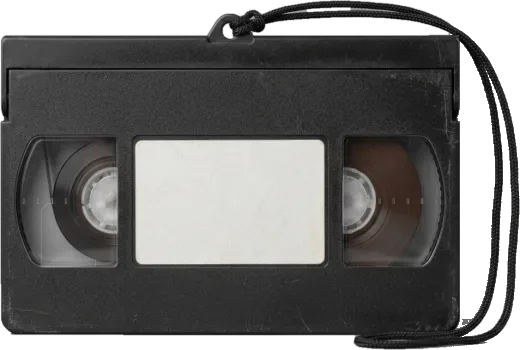
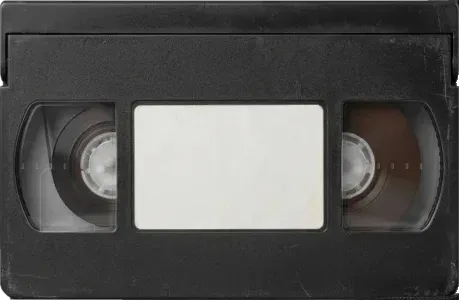
kave/a/vhs/cassette.webp, kg-vhs.css, kg-vhs.js : cassette du chargement sans cordon ni languette (« Enlève la sangle de la cassette », 16 nov. 2026, 3 h 36) ; titre de la cassette chargée écrit au feutre sur l'étiquette, taille réglée au titre pour qu'il tienne entier (« Sois proactif », 3 h 33) ; 
Claude-Session: https://claude.ai/code/session_014nJuEKZjA9iucYNUfjh7aH

diff --git a/kg-vhs.js b/kg-vhs.js
@@ -1694,3 +1694,12 @@
  document.addEventListener('focusin',function(e){if(e.target.closest&&e.target.closest('#vhs'))on(find(e.target))},true);
  document.addEventListener('focusout',function(e){off(find(e.target))},true);
  setInterval(function(){[].forEach.call(document.querySelectorAll('#vhs [aria-current="true"],#vhs .is-playing,#vhs .is-current,#vhs .vhs-face .vhs-label'),function(el){var x=over(el)?el:el.querySelector&&[].filter.call(el.querySelectorAll('*'),over)[0];if(x&&!x.classList.contains('ik-tp-on'))on(x)})},1500)})();
+/* 16 nov. 2026 (Mauk Tenieb, « Sois proactif ») : la cassette qui entre porte au feutre, sur son étiquette, le titre de la cassette chargée */
+addEventListener('kg-vhs:open',function(){setTimeout(function(){
+  var b=document.querySelector('#vhs [data-vhs-boot]'),l=document.querySelector('#vhs .vhs-face .vhs-label');if(!b||b.querySelector('.vhs-boot-name'))return;
+  var t=((l&&l.textContent)||'').replace(/^\s*\d+\s*\/\s*\d+\s*[—–-]\s*/,'').trim();if(!t)return;
+  var n=document.createElement('div');n.className='vhs-boot-name';n.setAttribute('aria-hidden','true');var i=document.createElement('i');i.textContent=t;n.appendChild(i);b.appendChild(n);fitName(n);},0);});
+/* le titre tient entier sur l'étiquette : la taille du feutre se règle au titre, sur deux ou trois lignes, plancher 7 px */
+function fitName(n){var i=n&&n.querySelector('i');if(!i)return;var f=Math.max(7,Math.round(n.clientHeight*.13));i.style.fontSize=f+'px';
+  while(f>7&&(i.scrollHeight>i.clientHeight+1||i.scrollWidth>i.clientWidth+1)){f-=.5;i.style.fontSize=f+'px';}}
+window.KGVHSFitName=fitName;

diff --git a/kg-vhs.css b/kg-vhs.css
@@ -1182,5 +1182,12 @@
 }
 
 /* 16 nov. 2026 (images de Mauk Tenieb, 2 h 46) : la cassette qui entre au chargement est sa photo de cassette VHS */
-html body .vhs-boot-tape{display:block!important;width:46%;aspect-ratio:520/350;height:auto;background:url(kave/a/vhs/cassette.webp) center/contain no-repeat}
+html body .vhs-boot-tape{display:block!important;width:46%;aspect-ratio:459/300;height:auto;background:url(kave/a/vhs/cassette.webp) center/contain no-repeat}
 .vhs-boot-tape>*{display:none}
+html body .vhs-boot:has(.vhs-boot-name) .vhs-boot-tape{visibility:hidden}
+html body .vhs-boot-name{position:absolute;left:50%;top:50%;width:46%;aspect-ratio:459/300;transform:translate(-50%,-50%);pointer-events:none;
+  background:url(kave/a/vhs/cassette.webp) center/contain no-repeat;filter:drop-shadow(0 6px 18px rgba(0,0,0,.8));
+  animation:vhs-tape-in .55s cubic-bezier(.2,.9,.25,1) both;animation-delay:var(--snow-ms,.6s)}
+html body .vhs-boot-name i{position:absolute;left:30.5%;top:37.5%;width:39%;height:37%;display:flex;align-items:center;justify-content:center;text-align:center;overflow:hidden;
+  font:400 12px/1.1 "Permanent Marker","Marker Felt",cursive;font-style:normal;color:#1d2a6e;transform:rotate(-2deg);overflow-wrap:anywhere;hyphens:none}
+html body .vhs-boot.is-inserting .vhs-boot-name{animation:vhs-tape-in .3s reverse both}

diff --git a/sw.js b/sw.js
@@ -1,5 +1,5 @@
 /* Insert Koin: pages and code from the network first (the cache only when offline); images, fonts and wasm from the cache, then refreshed */
-const C='borne-202611160904';  // prefix borne- : this worker clears only its own caches, Insert Koin's ik- caches stay
+const C='borne-202611160905';  // prefix borne- : this worker clears only its own caches, Insert Koin's ik- caches stay
 self.addEventListener('install',e=>self.skipWaiting());
 self.addEventListener('activate',e=>e.waitUntil(caches.keys().then(ks=>Promise.all(ks.filter(k=>k!==C&&(k.indexOf('borne-')===0||(k.indexOf('ik-')===0&&k.indexOf('ik-archive')!==0))).map(k=>caches.delete(k)))).then(()=>self.clients.claim())));
 self.addEventListener('fetch',e=>{const u=new URL(e.request.url);if(e.request.method!=='GET'||u.origin!==location.origin||e.request.headers.has('range'))return;  // audio and video read by ranges go to the network (Safari)
